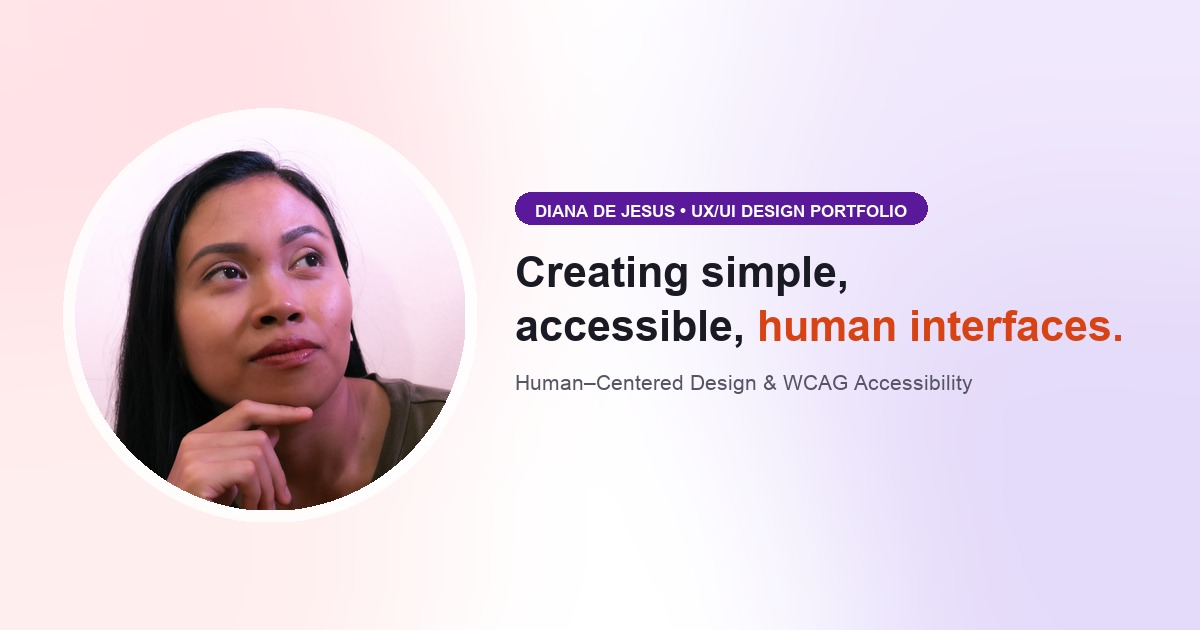
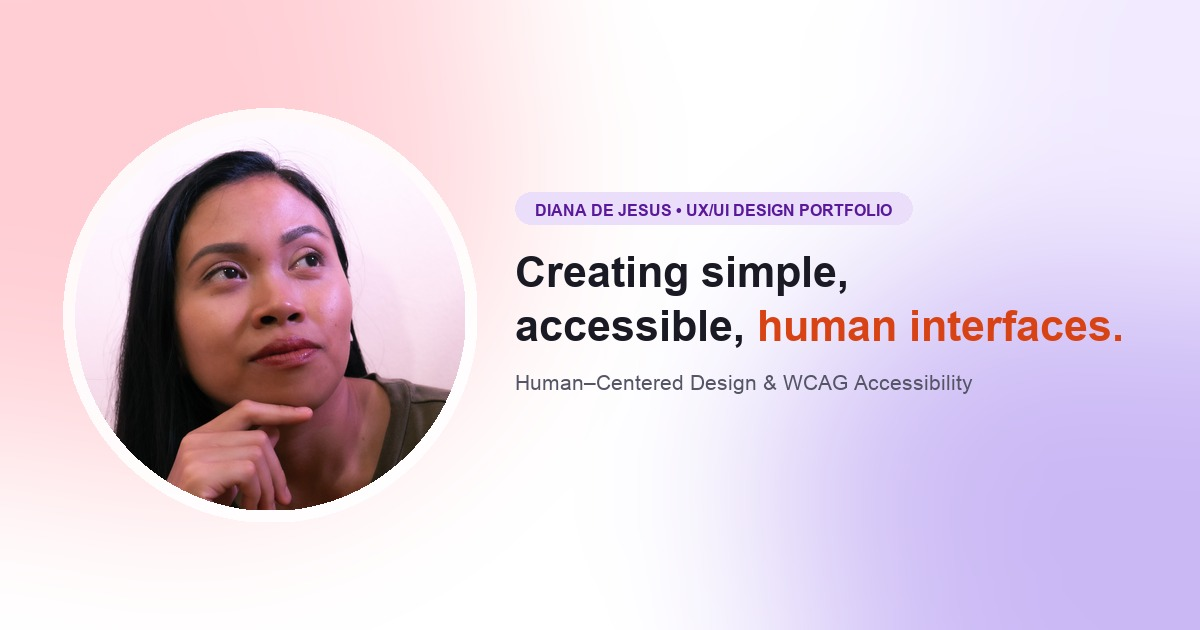
style(og): perfect mesh gradient placement and refine pill badge to harmonious soft lavender with deep violet text

Changed region(s): [[0.6783, 0.573, 1.0, 1.0], [0.4317, 0.3016, 0.7708, 0.3619]]

diff --git a/en/index.html b/en/index.html
@@ -25,7 +25,7 @@
   <meta property="og:url" content="https://dianamariedjesus.github.io/en/">
   <meta property="og:title" content="Diana de Jesus | UX/UI Design Portfolio">
   <meta property="og:description" content="Creating accessible experiences for real people. Empathy first, then aesthetics, because inclusive design is a responsibility.">
-  <meta property="og:image" content="https://dianamariedjesus.github.io/assets/img/og-image-en.jpg?v=2.0">
+  <meta property="og:image" content="https://dianamariedjesus.github.io/assets/img/og-image-en.jpg?v=2.1">
   <meta property="og:image:width" content="1200">
   <meta property="og:image:height" content="630">
   <meta property="og:image:type" content="image/jpeg">
@@ -34,7 +34,7 @@
   <meta name="twitter:card" content="summary_large_image">
   <meta name="twitter:title" content="Diana de Jesus | UX/UI Design Portfolio">
   <meta name="twitter:description" content="Creating accessible experiences for real people. Empathy first, then aesthetics, because inclusive design is a responsibility.">
-  <meta name="twitter:image" content="https://dianamariedjesus.github.io/assets/img/og-image-en.jpg?v=2.0">
+  <meta name="twitter:image" content="https://dianamariedjesus.github.io/assets/img/og-image-en.jpg?v=2.1">
 
   <!-- Base Navbar & Footer CSS -->
   <link rel="stylesheet" href="../assets/css/homepage.css?v=15.3">

diff --git a/index.html b/index.html
@@ -25,7 +25,7 @@
   <meta property="og:url" content="https://dianamariedjesus.github.io/">
   <meta property="og:title" content="Diana de Jesus | UX/UI Design Portfolio">
   <meta property="og:description" content="Creo esperienze accessibili per persone reali. Prima l'empatia e poi l'estetica, perché il design inclusivo è una responsabilità.">
-  <meta property="og:image" content="https://dianamariedjesus.github.io/assets/img/og-image.jpg?v=2.0">
+  <meta property="og:image" content="https://dianamariedjesus.github.io/assets/img/og-image.jpg?v=2.1">
   <meta property="og:image:width" content="1200">
   <meta property="og:image:height" content="630">
   <meta property="og:image:type" content="image/jpeg">
@@ -34,7 +34,7 @@
   <meta name="twitter:card" content="summary_large_image">
   <meta name="twitter:title" content="Diana de Jesus | UX/UI Design Portfolio">
   <meta name="twitter:description" content="Creo esperienze accessibili per persone reali. Prima l'empatia e poi l'estetica, perché il design inclusivo è una responsabilità.">
-  <meta name="twitter:image" content="https://dianamariedjesus.github.io/assets/img/og-image.jpg?v=2.0">
+  <meta name="twitter:image" content="https://dianamariedjesus.github.io/assets/img/og-image.jpg?v=2.1">
 
   <!-- Base Navbar & Footer CSS -->
   <link rel="stylesheet" href="assets/css/homepage.css?v=15.3">
